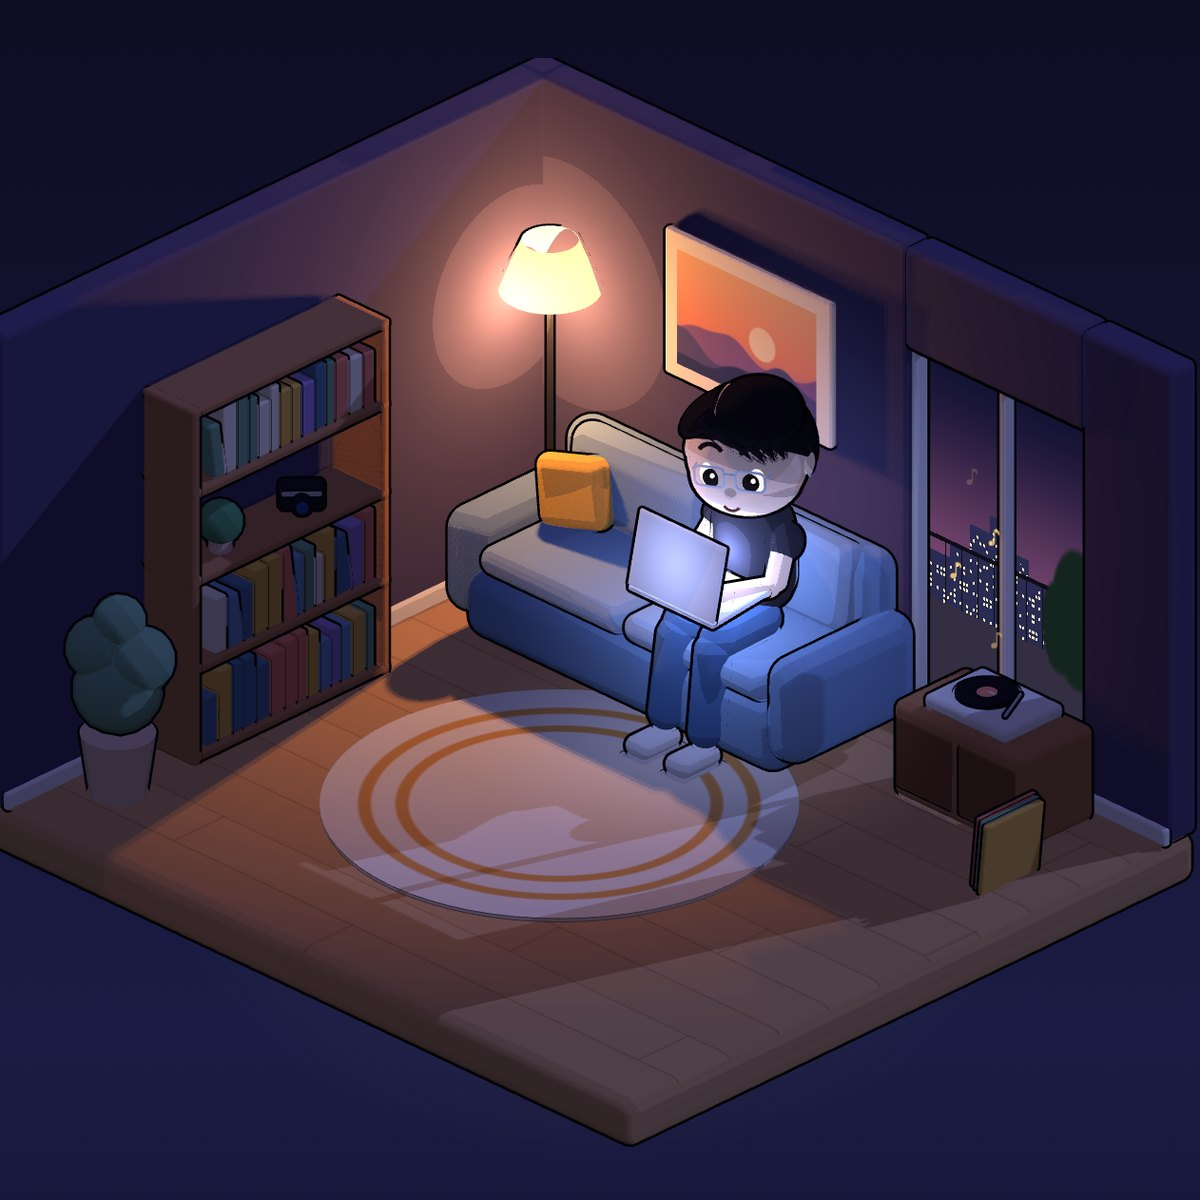
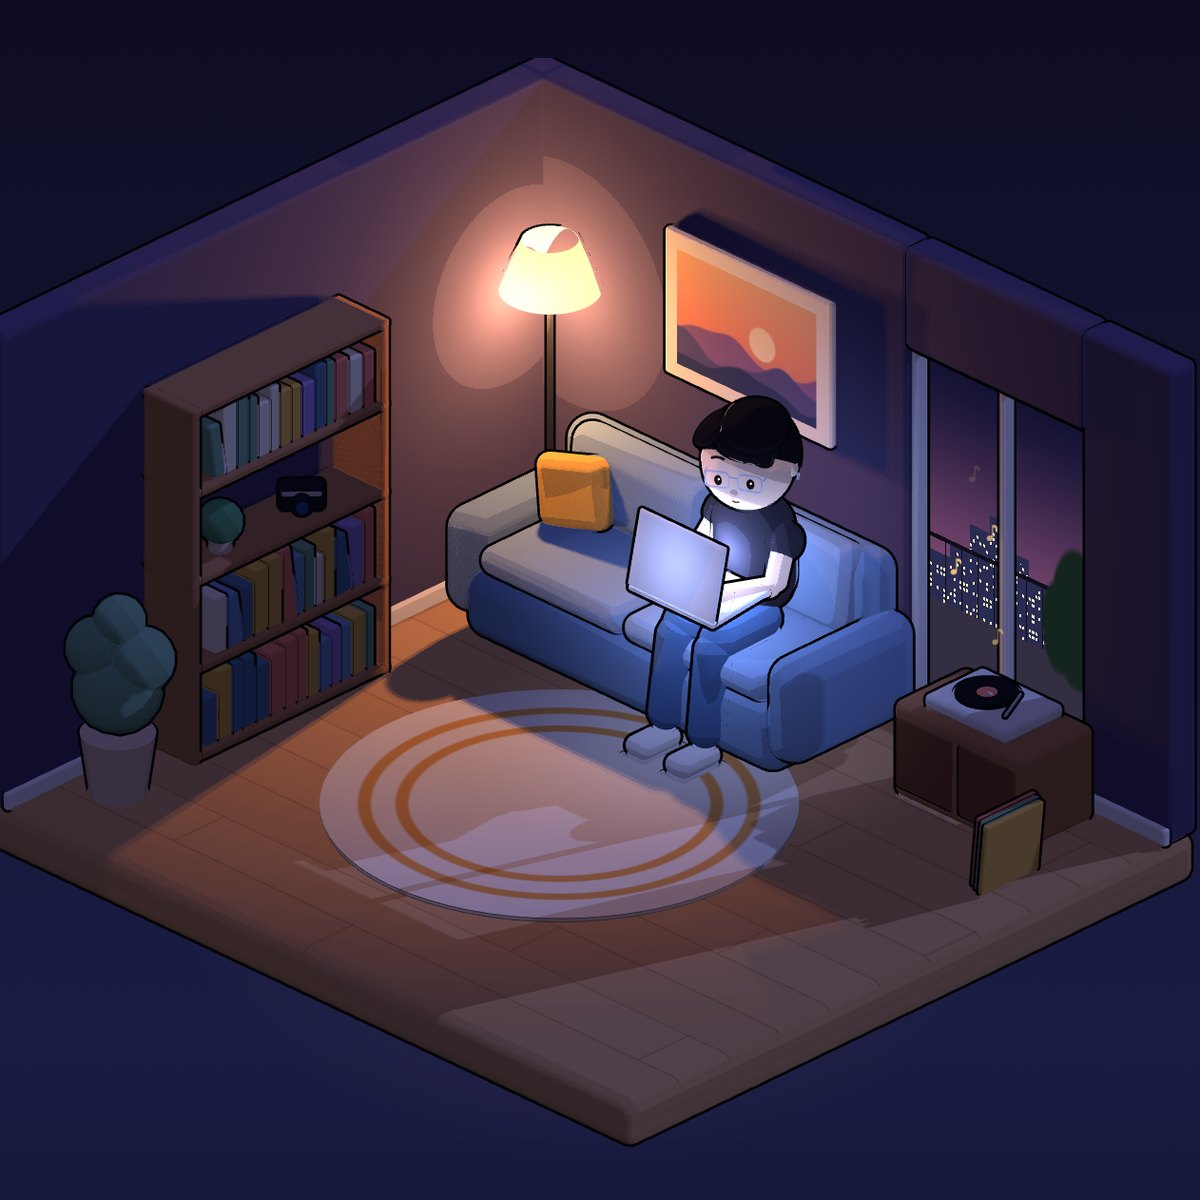
Less cartoon: a head sized to the body, oval eyes, a swept fringe and a short mouth line
Claude-Session: https://claude.ai/code/session_01FH67SwyQXea5kehW28VuDA

Changed region(s): [[0.555, 0.3083, 0.6783, 0.4317], [0.8017, 0.4317, 0.8325, 0.4625], [0.7708, 0.4625, 0.8017, 0.4933]]

diff --git a/public/scene.js b/public/scene.js
@@ -218,55 +218,52 @@ function build(renderer) {
   screenGlow.position.set(0, 0.2, 0.25);
   lid.add(screenGlow);
 
-  // The head: round and full-cheeked like his Memoji, drawn large so the face reads at a glance.
+  // The head: rounded like his Memoji but sized to the body, an illustration rather than a chibi.
   const head = new THREE.Group();
-  head.position.set(0, 0.88, 0.0);
-  head.scale.setScalar(1.18);
+  head.position.set(0, 0.84, 0.0);
+  head.scale.setScalar(0.95);
   me.add(head);
-  put(new THREE.SphereGeometry(0.245, 48, 36), skin, [0, 0, 0], head).scale.set(1.0, 0.97, 0.96);
-  put(new THREE.SphereGeometry(0.205, 40, 28), skin, [0, -0.075, 0.03], head).scale.set(1.1, 0.78, 0.95);
-  for (const s of [-1, 1]) put(new THREE.SphereGeometry(0.05, 16, 12), skin, [s * 0.242, -0.01, -0.01], head).scale.set(0.55, 1, 0.9);
-  put(new THREE.CapsuleGeometry(0.07, 0.06, 6, 12), skin, [0, -0.25, -0.01], head);
+  put(new THREE.SphereGeometry(0.245, 48, 36), skin, [0, 0, 0], head).scale.set(0.94, 1.0, 0.96);
+  put(new THREE.SphereGeometry(0.19, 40, 28), skin, [0, -0.085, 0.03], head).scale.set(0.98, 0.66, 0.92);
+  for (const s of [-1, 1]) put(new THREE.SphereGeometry(0.042, 16, 12), skin, [s * 0.228, -0.015, -0.01], head).scale.set(0.55, 1, 0.9);
+  put(new THREE.CapsuleGeometry(0.07, 0.06, 6, 12), skin, [0, -0.26, -0.01], head);
   // Hair parted three-to-seven, the part on his right: a cap over the crown and back with the
-  // hairline high, the short side combed flat, the long side lifting, and the fringe in strands
-  // that sweep from the part across his forehead toward his left brow.
+  // hairline high, the short side combed flat, and the long side sweeping across his forehead.
   const PART = -0.09;
   const cap = put(new THREE.SphereGeometry(0.258, 48, 28, 0, Math.PI * 2, 0, Math.PI * 0.52), hair, [0, 0.015, -0.03], head);
   cap.rotation.x = -0.62;
-  const flat = put(new THREE.SphereGeometry(0.11, 24, 16), hair, [PART - 0.075, 0.18, 0.05], head);
+  cap.scale.set(0.95, 1.03, 1);
+  const flat = put(new THREE.SphereGeometry(0.11, 24, 16), hair, [PART - 0.07, 0.185, 0.05], head);
   flat.scale.set(0.8, 0.42, 1.5);
   flat.rotation.z = 0.5;
-  const lift = put(new THREE.SphereGeometry(0.15, 32, 20), hair, [PART + 0.15, 0.215, 0.03], head);
-  lift.scale.set(1.15, 0.52, 1.3);
+  const lift = put(new THREE.SphereGeometry(0.15, 32, 20), hair, [PART + 0.14, 0.22, 0.03], head);
+  lift.scale.set(1.1, 0.5, 1.3);
   lift.rotation.set(0.15, 0, -0.18);
-  for (const [x, y, z, rz, len] of [
-    [-0.05, 0.165, 0.175, -2.2, 0.19], [0.015, 0.155, 0.19, -2.3, 0.2], [0.08, 0.145, 0.185, -2.4, 0.18],
-    [0.135, 0.135, 0.165, -2.5, 0.13], [0.175, 0.12, 0.13, -2.6, 0.1],
-  ]) {
-    const strand = put(new THREE.ConeGeometry(0.05, len, 16), hair, [x, y, z], head);
-    strand.rotation.set(-0.4, 0, rz);
-  }
+  const sweep = put(new THREE.SphereGeometry(0.13, 32, 20), hair, [PART + 0.13, 0.17, 0.14], head);
+  sweep.scale.set(1.2, 0.4, 0.72);
+  sweep.rotation.set(0.5, 0.15, -0.32);
+  const tip = put(new THREE.SphereGeometry(0.07, 20, 14), hair, [0.125, 0.13, 0.165], head);
+  tip.scale.set(0.85, 0.42, 0.7);
+  tip.rotation.set(0.4, 0, -0.65);
   const partLine = new THREE.CatmullRomCurve3([
-    new THREE.Vector3(PART, 0.215, 0.15), new THREE.Vector3(PART - 0.004, 0.265, 0.03), new THREE.Vector3(PART - 0.008, 0.25, -0.09),
+    new THREE.Vector3(PART, 0.22, 0.15), new THREE.Vector3(PART - 0.004, 0.27, 0.03), new THREE.Vector3(PART - 0.008, 0.255, -0.09),
   ]);
-  put(new THREE.TubeGeometry(partLine, 16, 0.007, 6), clay("#ecc4a6"), [0, 0, 0], head, { cast: false });
-  for (const s of [-1, 1]) put(new THREE.SphereGeometry(0.07, 16, 12), hair, [s * 0.218, 0.075, -0.06], head).scale.set(0.33, 0.8, 1.05);
-  // Big eyes with a light in them, arched brows, and a small smile line instead of lips.
-  const white = new THREE.MeshBasicMaterial({ color: "#fdfcf9" });
-  const iris = toonMat({ color: "#241c19" });
+  put(new THREE.TubeGeometry(partLine, 16, 0.006, 6), clay("#ecc4a6"), [0, 0, 0], head, { cast: false });
+  for (const s of [-1, 1]) put(new THREE.SphereGeometry(0.065, 16, 12), hair, [s * 0.206, 0.075, -0.06], head).scale.set(0.33, 0.8, 1.05);
+  // Dark oval eyes with a pinpoint of light, straight brows, a small nose and a short mouth line.
+  const iris = toonMat({ color: "#1f1917" });
   const spark = new THREE.MeshBasicMaterial({ color: "#ffffff" });
   const browMat = clay("#231d20");
   for (const s of [-1, 1]) {
-    const x = s * 0.085;
-    put(new THREE.SphereGeometry(0.055, 24, 18), white, [x, 0.0, 0.198], head, { cast: false }).scale.set(0.95, 1.1, 0.5);
-    put(new THREE.SphereGeometry(0.037, 20, 16), iris, [x - s * 0.004, -0.004, 0.219], head, { cast: false }).scale.set(1, 1.08, 0.55);
-    put(new THREE.SphereGeometry(0.011, 8, 6), spark, [x + 0.013, 0.014, 0.236], head, { cast: false });
-    const brow = put(new THREE.TorusGeometry(0.05, 0.01, 6, 16, Math.PI * 0.68), browMat, [x, 0.09, 0.208], head, { cast: false });
-    brow.rotation.z = Math.PI * 0.16;
+    const x = s * 0.083;
+    put(new THREE.SphereGeometry(0.024, 20, 16), iris, [x, -0.002, 0.222], head, { cast: false }).scale.set(0.85, 1.15, 0.5);
+    put(new THREE.SphereGeometry(0.006, 8, 6), spark, [x + 0.007, 0.01, 0.234], head, { cast: false });
+    const brow = put(new THREE.TorusGeometry(0.07, 0.0075, 6, 12, Math.PI * 0.32), browMat, [x, 0.052, 0.214], head, { cast: false });
+    brow.rotation.z = Math.PI * 0.34;
   }
-  put(new THREE.SphereGeometry(0.026, 12, 10), skin, [0, -0.058, 0.235], head, { cast: false });
-  const smile = put(new THREE.TorusGeometry(0.036, 0.006, 6, 18, Math.PI * 0.7), clay("#6b3b38"), [0, -0.105, 0.222], head, { cast: false });
-  smile.rotation.z = Math.PI * 1.15;
+  put(new THREE.SphereGeometry(0.022, 12, 10), skin, [0, -0.06, 0.232], head, { cast: false });
+  const mouth = put(new THREE.TorusGeometry(0.028, 0.0045, 6, 12, Math.PI * 0.45), clay("#8a5048"), [0, -0.095, 0.206], head, { cast: false });
+  mouth.rotation.z = Math.PI * 1.275;
   // His glasses: thin silver rims.
   const rimMat = toonMat({ color: "#c9ccd6", roughness: 0.3, metalness: 0.7 });
   const ring = (() => {
